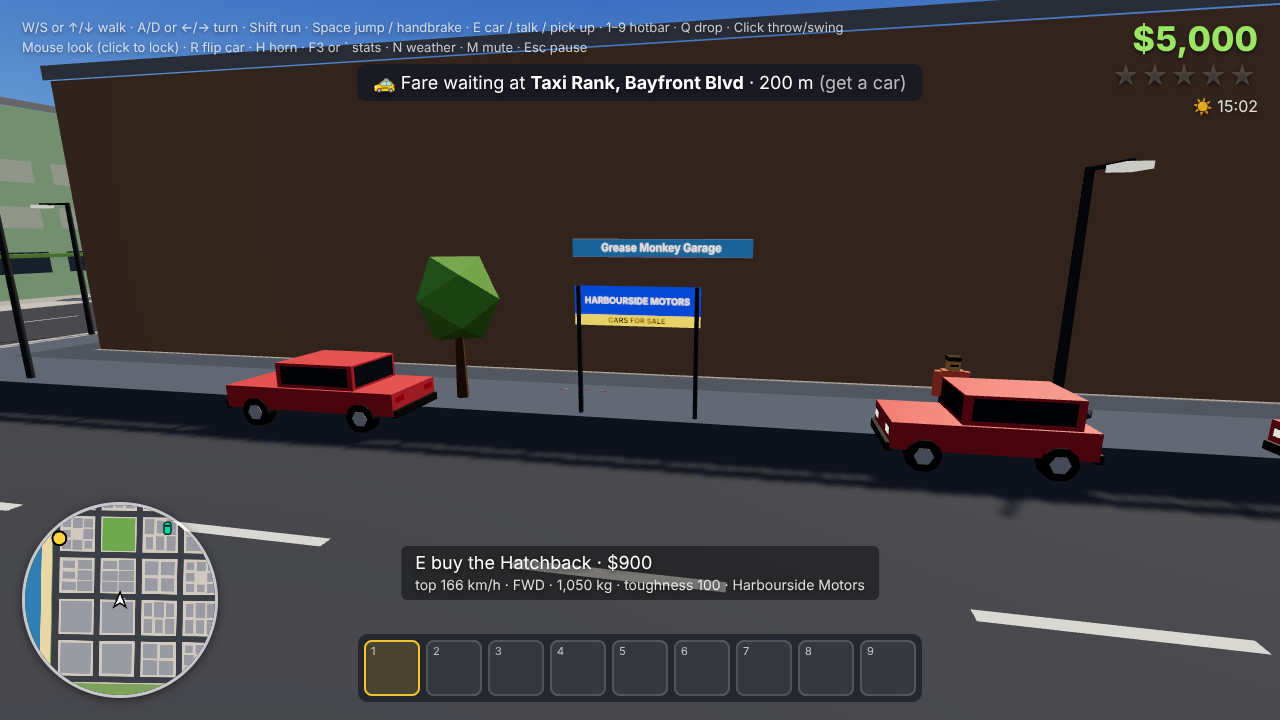
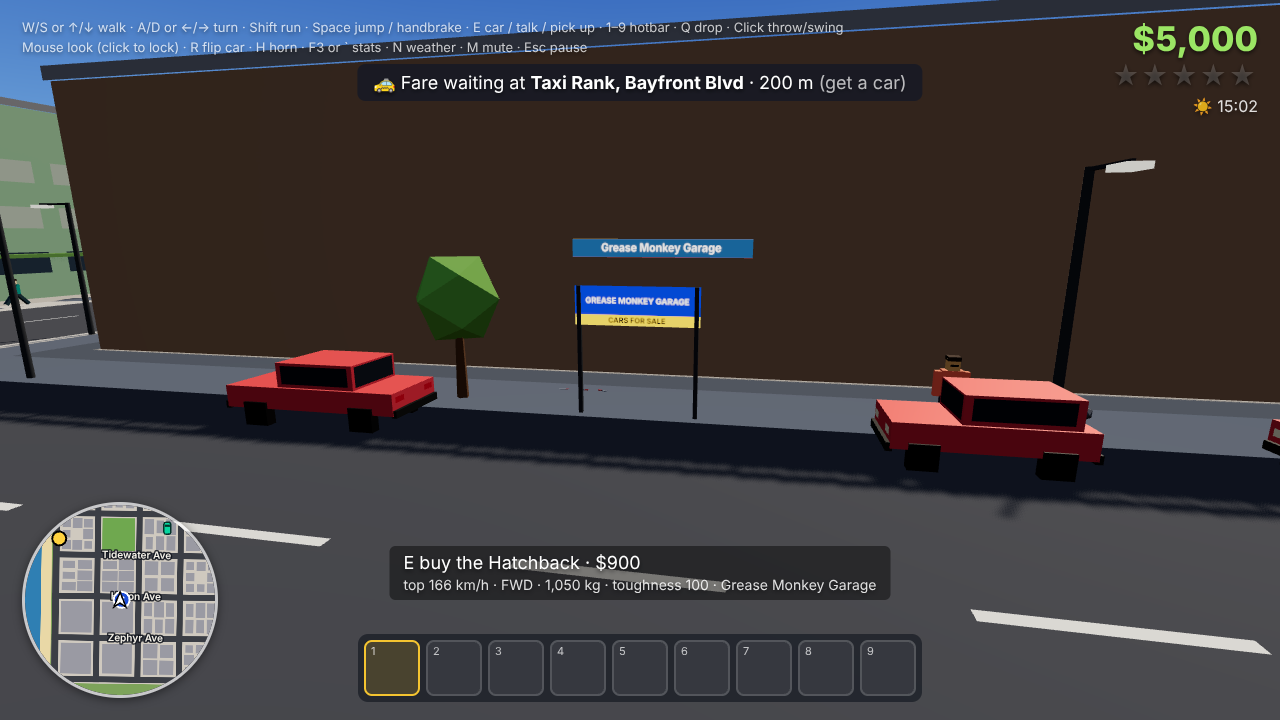
Parked-car pool no bigger than the parked cars of each type; minimap labels keep clear of badges; geolife screenshots
Claude-Session: https://claude.ai/code/session_012Y9CQc2geJ2jhDimLjKczQ

diff --git a/src/systems/minimap.ts b/src/systems/minimap.ts
@@ -142,6 +142,16 @@ function drawLabels(px: number, pz: number, yaw: number, k: number, r: number): 
   ctx.fillStyle = '#f4f1e8';
   const cy = Math.cos(yaw), sy = Math.sin(yaw), th = H.minimapLabelPx * 0.6 + 2, pad = H.minimapLabelGapPx;
   let n = 0;
+  // the badges (taxi ranks, dealerships) go on top: labels keep clear of them
+  for (let i = 0; i < badgeX.length && n < placedIdx.length; i++) {
+    const dx = (badgeX[i] - px) * k, dz = (badgeZ[i] - pz) * k;
+    const sx = dx * cy - dz * sy, sz = dx * sy + dz * cy;
+    if (sx * sx + sz * sz > r * r) continue;
+    const rad = (badgeKind[i] === 1 ? H.minimapDealerBadgePx : H.minimapRankBadgePx) + 1;
+    const o = n * 4;
+    placed[o] = sx; placed[o + 1] = sz; placed[o + 2] = rad; placed[o + 3] = rad;
+    placedIdx[n++] = -1;
+  }
   for (let i = 0; i < labelText.length && n < placedIdx.length; i++) {
     const dx = (labelX[i] - px) * k, dz = (labelZ[i] - pz) * k;
     const sx = dx * cy - dz * sy, sz = dx * sy + dz * cy;

diff --git a/src/systems/parkedCars.ts b/src/systems/parkedCars.ts
@@ -237,7 +237,11 @@ export function createParkedCars(w: World, keep: readonly { x: number; z: number
   w.parked = S;
   // the pool of drivable stand-ins (idle until a parked car near you needs one)
   const pool = V.parkedPool as Record<CarTypeName, number>;
-  for (const t of TYPES) for (let k = 0; k < pool[t]; k++) free[t].push(makePooled(w, t));
+  // (never more than there are parked cars of the type: the grid city has only a few dozen)
+  for (const t of TYPES) {
+    const want = Math.min(pool[t], cars.filter((r) => r.type === t).length);
+    for (let k = 0; k < want; k++) free[t].push(makePooled(w, t));
+  }
   return S;
 }
 
